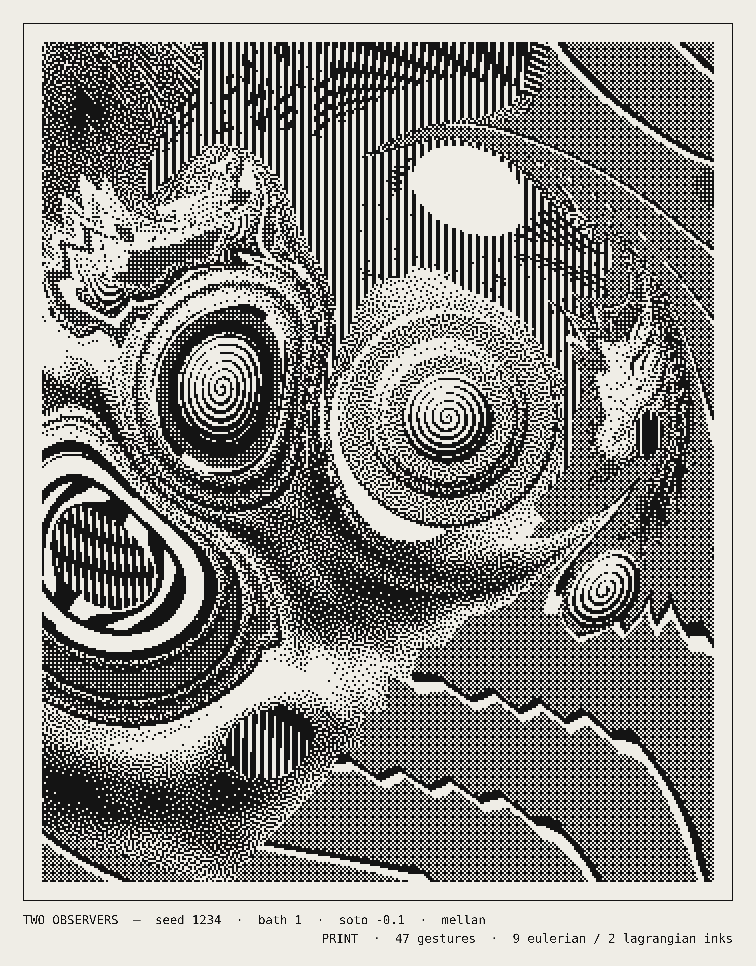
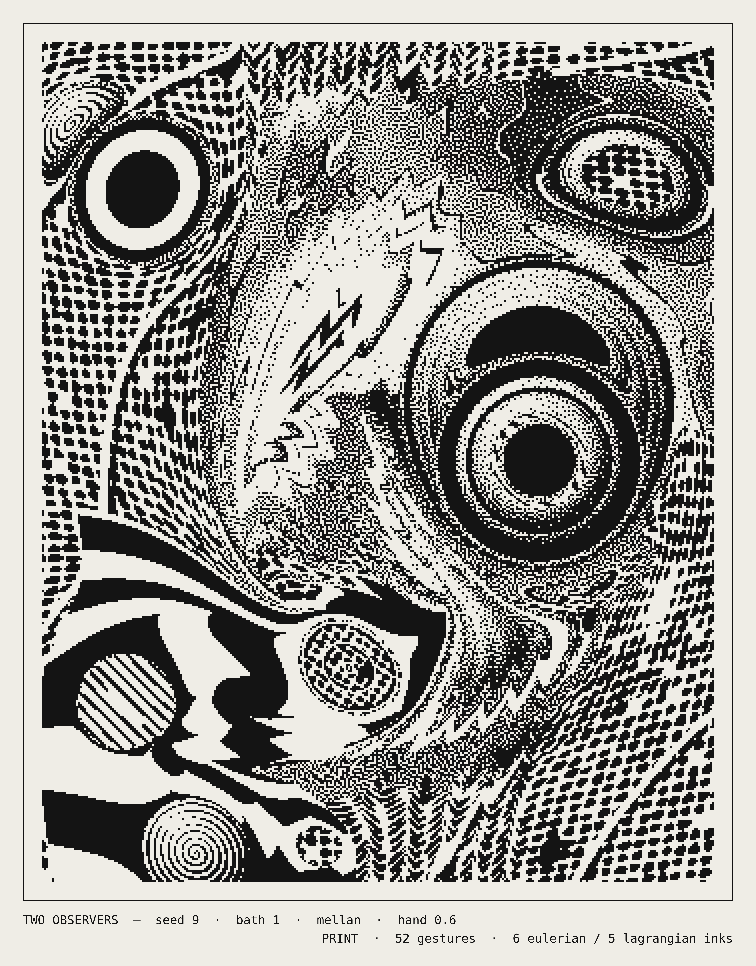
049: the hand, after Polke — carried screens painted, fixed screens machined
- Dot screens carried by the ink are painted: each dot wanders, grows or
  shrinks, goes oval and lobed; some are left out, a few blot into their
  neighbours (nine-dot neighbourhood). Values hash from the cell, so a dot
  is stable in time and is combed with its ink.
- Ruled line screens waver, thicken and break by value noise per line.
- `hand` (0.6) scales it; per-ink hands vary from a hash; no draws from the
  score streams. hand 0 is bit-identical to before (338,400 cells, 0 diff).
- GPU and CPU agree on 99.1-99.8% of cells with the hand on.

Claude-Session: https://claude.ai/code/session_012fSHPGUweFiGv7qkcBfQp8

diff --git a/projects/049-two-observers/sketch.js b/projects/049-two-observers/sketch.js
@@ -3,7 +3,8 @@
 // back through the maps that have started, on the GPU, and asks the material's observer whether
 // the pixel is ink or paper. Two observers come from physical work: Soto (a fixed striped panel
 // behind ink that carries its own lines; the pointer moves the panel) and Mellan (one spiral line
-// per drop, width as tone; V exports it for a pen plotter).
+// per drop, width as tone; V exports it for a pen plotter). The screens carried by the ink are
+// painted by hand, after Polke: dots wander, swell, go missing or blot; lines waver and break.
 // Keys: Space pause · ←/→ scrub (Shift ×5) · N/B next/previous bath · O score overlay
 // · P print (PNG) · V plotter layer (SVG) · J score (JSON) · S sheet PNG · R new seed.
 
@@ -39,6 +40,7 @@
       soto: { value: 0.7, min: 0, max: 1, step: 0.05, label: 'soto chance' },
       mellan: { value: 0.8, min: 0, max: 1, step: 0.05, label: 'mellan chance' },
       panel: { value: 4, min: 3, max: 10, step: 1, label: 'soto panel (cells)' },
+      hand: { value: 0.6, min: 0, max: 1, step: 0.05, label: 'hand (polke)' },
     },
     onReset: function () { if (!S) return; newScore(); doLayout(); },
   });
@@ -54,7 +56,8 @@
   uniform int uNOps, uNWin, uBg;
   uniform float uT, uResolve, uPanel, uParallax;
   uniform vec2 uGrid;
-  uniform vec4 uMat[${M.MAX_MATS * 2}];
+  uniform vec4 uMat[${M.MAX_MATS * 3}];
+  uniform uint uSalt[${M.MAX_MATS}];
   uniform vec4 uWin[${M.MAX_WINS * 2}];
   uniform vec3 uPaper, uInk;
   out vec4 outColor;
@@ -76,10 +79,10 @@
     return (float(v) + 0.5) / 64.0;
   }
   float tone(int m, vec2 q, float rad){
-    vec4 A = uMat[2 * m];
+    vec4 A = uMat[3 * m];
     int pat = int(A.x); float c = cos(A.w), s = sin(A.w);
     float u = q.x * c + q.y * s, v = -q.x * s + q.y * c;
-    float param = uMat[2 * m + 1].w;
+    float param = uMat[3 * m + 1].w;
     if (pat == 0) return A.y;
     if (pat == 1) return fract(u * A.z) < param ? 1.0 : 0.0;
     if (pat == 2){ float w = fract(u * A.z + param * sin(v * A.z * 0.9 + 1.7)); return w < 0.07 ? 1.0 : (w < 0.13 ? 0.0 : A.y); }
@@ -107,7 +110,7 @@
   }
   float blueAt(int x, int y){ return texelFetch(uBlue, ivec2(x & 63, y & 63), 0).r; }
   float threshold(int m, int x, int y, vec2 q, float k){
-    vec4 B = uMat[2 * m + 1];
+    vec4 B = uMat[3 * m + 1];
     int scr = int(B.x);
     if (scr == 5){
       if (1.0 / (B.y * max(k, 1e-9)) >= uResolve){
@@ -130,9 +133,51 @@
     return bayer8(x & 7, y & 7);
   }
 
+  // Polke's hand: per-cell values of an ink's painted screen
+  uint cellH(int cx, int cy, uint salt){ return h32((uint(cx + 4096) * 0x8da6b343u) ^ (uint(cy + 4096) * 0xd8163841u) ^ salt); }
+  float u01(uint h, uint n){ return float(h32(h ^ (n * 0x9e3779b9u))) / 4294967296.0; }
+  bool handDots(int m, vec2 q, float g){
+    vec4 B = uMat[3 * m + 1]; float H = uMat[3 * m + 2].x; uint salt = uSalt[m];
+    float c = cos(B.z), s = sin(B.z);
+    float u = (q.x * c + q.y * s) * B.y, v = (-q.x * s + q.y * c) * B.y;
+    int bx = int(floor(u)), by = int(floor(v));
+    for (int dy = -1; dy <= 1; dy++) for (int dx = -1; dx <= 1; dx++){
+      int cx = bx + dx, cy = by + dy;
+      uint h = cellH(cx, cy, salt);
+      float h0 = u01(h, 1u), h1 = u01(h, 2u), h2 = u01(h, 3u), h3 = u01(h, 4u), h4 = u01(h, 5u), h5 = u01(h, 6u);
+      if (h3 > 1.0 - 0.05 * H) continue;
+      float size = 1.0 + 0.6 * H * (h2 - 0.5);
+      if (h3 < 0.015 * H) size *= 1.9;
+      float r2 = (1.0 - g) / 3.141592654 * size * size;
+      if (r2 <= 0.0) continue;
+      float ex = u - (float(cx) + 0.5 + 0.32 * H * (h0 - 0.5));
+      float ey = v - (float(cy) + 0.5 + 0.32 * H * (h1 - 0.5));
+      float e = 0.45 * H * (h4 - 0.5);
+      ex *= 1.0 + e; ey *= 1.0 - e;
+      float wob = 1.0 + 0.14 * H * sin(3.0 * atan(ey, ex) + 6.283185307 * h5);
+      if ((ex * ex + ey * ey) * wob * wob < r2) return true;
+    }
+    return false;
+  }
+  bool handLines(int m, vec2 q, float g){
+    vec4 B = uMat[3 * m + 1]; float H = uMat[3 * m + 2].x; uint salt = uSalt[m];
+    float c = cos(B.z), s = sin(B.z);
+    float u = (q.x * c + q.y * s) * B.y, v = (-q.x * s + q.y * c) * B.y;
+    int b = int(floor(v));
+    for (int dl = -1; dl <= 1; dl++){
+      int L = b + dl;
+      uint sl = salt ^ (uint(L + 4096) * 0x27d4eb2du);
+      float wob = 0.42 * H * (vnoise(vec2(u * 0.18, 0.5), sl) - 0.5);
+      float width = 1.0 + 0.7 * H * (vnoise(vec2(u * 0.5, 7.5), sl) - 0.5);
+      if (vnoise(vec2(u * 0.09, 13.5), sl) < 0.22 * H) continue;
+      if (abs(v - (float(L) + 0.5 + wob)) < 0.5 * (1.0 - g) * width) return true;
+    }
+    return false;
+  }
+
   // Soto: the fixed panel (period uPanel cells, moved by the viewer) or the ink's own lines.
   float sotoBit(int m, int ix, vec2 q, float k){
-    vec4 A = uMat[2 * m], B = uMat[2 * m + 1];
+    vec4 A = uMat[3 * m], B = uMat[3 * m + 1];
     bool panelInk = fract((float(ix) + uParallax) / uPanel) < 0.5;
     float fL = B.y * uGrid.x / (uPanel * ${M.PLATE_W.toFixed(4)});
     bool lineInk = false;
@@ -188,8 +233,15 @@
     // material units per pixel, measured in uniform control flow
     float k = max(length(dFdx(q)), length(dFdy(q)));
     bool paper;
-    if (int(uMat[2 * mat + 1].x) == 4) paper = sotoBit(mat, ix, q, k) > 0.5;
-    else paper = tone(mat, q, hitR) > threshold(mat, ix, iy, q, k);
+    vec4 B = uMat[3 * mat + 1];
+    int scr = int(B.x); float hnd = uMat[3 * mat + 2].x;
+    if (scr == 4) paper = sotoBit(mat, ix, q, k) > 0.5;
+    else {
+      float g = tone(mat, q, hitR);
+      if (hnd > 0.0 && (scr == 2 || scr == 3) && 1.0 / (B.y * max(k, 1e-9)) >= uResolve)
+        paper = !(scr == 2 ? handDots(mat, q, g) : handLines(mat, q, g));
+      else paper = g > threshold(mat, ix, iy, q, k);
+    }
     outColor = vec4(paper ? uPaper : uInk, 1.0);
   }`;
 
@@ -214,7 +266,7 @@
     gl.bufferData(gl.ARRAY_BUFFER, new Float32Array([-1, -1, 3, -1, -1, 3]), gl.STATIC_DRAW);
     const loc = gl.getAttribLocation(prog, 'p');
     gl.enableVertexAttribArray(loc); gl.vertexAttribPointer(loc, 2, gl.FLOAT, false, 0, 0);
-    for (const n of ['uOps', 'uBlue', 'uNOps', 'uNWin', 'uBg', 'uT', 'uResolve', 'uPanel', 'uParallax', 'uGrid', 'uMat', 'uWin', 'uPaper', 'uInk']) U[n] = gl.getUniformLocation(prog, n);
+    for (const n of ['uOps', 'uBlue', 'uNOps', 'uNWin', 'uBg', 'uT', 'uResolve', 'uPanel', 'uParallax', 'uGrid', 'uMat', 'uSalt', 'uWin', 'uPaper', 'uInk']) U[n] = gl.getUniformLocation(prog, n);
     texOps = gl.createTexture(); texBlue = gl.createTexture();
     gl.activeTexture(gl.TEXTURE1); gl.bindTexture(gl.TEXTURE_2D, texBlue);
     setNearest();
@@ -235,7 +287,7 @@
     gl.activeTexture(gl.TEXTURE0); gl.bindTexture(gl.TEXTURE_2D, texOps);
     setNearest();
     gl.texImage2D(gl.TEXTURE_2D, 0, gl.RGBA32F, 3, M.MAX_OPS, 0, gl.RGBA, gl.FLOAT, P.ops);
-    gl.uniform4fv(U.uMat, P.mats); gl.uniform4fv(U.uWin, P.wins);
+    gl.uniform4fv(U.uMat, P.mats); gl.uniform4fv(U.uWin, P.wins); gl.uniform1uiv(U.uSalt, P.salts);
     gl.uniform1i(U.uNOps, P.nOps); gl.uniform1i(U.uNWin, P.nWins); gl.uniform1i(U.uBg, P.bg);
   }
   const useGPU = initGL();
@@ -268,7 +320,7 @@
 
   // ------------------------------------------------------------------ score & layout
   function newScore() {
-    S = M.score(G.seed, bath, { lagrange: G.param('lagrange'), density: G.param('density'), soto: G.param('soto'), mellan: G.param('mellan') });
+    S = M.score(G.seed, bath, { lagrange: G.param('lagrange'), density: G.param('density'), soto: G.param('soto'), mellan: G.param('mellan'), hand: G.param('hand') });
     upload();
     syncURL();
   }
@@ -331,7 +383,7 @@
   function captionFor(time) {
     const c = counts(time);
     const printing = t >= S.settle;
-    const extra = (S.sotoMat >= 0 ? '  ·  soto' + (Math.abs(parallax) > 0.05 ? ' ' + (parallax > 0 ? '+' : '') + parallax.toFixed(1) : '') : '') + (S.mellanMat >= 0 ? '  ·  mellan' : '');
+    const extra = (S.sotoMat >= 0 ? '  ·  soto' + (Math.abs(parallax) > 0.05 ? ' ' + (parallax > 0 ? '+' : '') + parallax.toFixed(1) : '') : '') + (S.mellanMat >= 0 ? '  ·  mellan' : '') + (S.hand > 0 ? '  ·  hand ' + S.hand.toFixed(2).replace(/0$/, '') : '');
     const left = `TWO OBSERVERS  —  seed ${G.seed}  ·  bath ${bath + 1}${extra}`;
     const right = printing
       ? `PRINT  ·  ${S.ops.length} gestures  ·  ${c.eul} eulerian / ${c.lag} lagrangian inks`

diff --git a/projects/049-two-observers/marble.js b/projects/049-two-observers/marble.js
@@ -19,6 +19,12 @@
  * swim and the viewer's position shifts the panel. Mellan (the Sudarium, 1649): one spiral line
  * per drop whose width carries the tone, combed with the ink and exportable for a pen plotter.
  *
+ * And a hand, after Polke's raster paintings: the screens carried by the ink are painted, not
+ * machined. Each dot wanders, swells or shrinks, goes out of round; now and then one is missing or
+ * runs into its neighbours as a blot; ruled lines waver, thicken and break. The irregularity is a
+ * property of the ink's own cells, so it is stable in time and is combed with the ink. The fixed
+ * screens on the glass stay exact. hand = 0 is the machine and reproduces the unpainted screens.
+ *
  * sketch.js runs the same arithmetic in a fragment shader; this file generates the score,
  * the blue-noise screen and a CPU render used for previews and for checking the shader.
  */
@@ -214,13 +220,24 @@
       if (mellanMat >= 0 && o.a[2] >= 0.05 && u < 0.4) o.mat = mellanMat;
       else if (sotoMat >= 0 && u > 0.93) o.mat = sotoMat;
     }
+    // The hand: painted carried screens. No draws from the score's streams — a hash per ink sets how
+    // heavy each hand is, so the gestures and inks of a seed do not move when the hand changes.
+    const hand = opts.hand == null ? 0.6 : opts.hand;
+    const ss = sessionSeed(seed, bath);
+    mats.forEach((Mt, i) => {
+      Mt.hand = 0; Mt.salt = hash32(ss ^ Math.imul(i + 1, 0x85ebca6b));
+      if (hand > 0 && (Mt.screen === SCR.DOTS || Mt.screen === SCR.LINES)) {
+        Mt.hand = hand * (0.6 + 0.4 * (hash32(Mt.salt ^ 0x51ed) / 4294967296));
+        if (Mt.screen === SCR.DOTS) Mt.sfreq *= 1 - 0.45 * Mt.hand;   // Polke's enlarged raster
+      }
+    });
     let end = 0;
     for (const o of ops) end = Math.max(end, o.t0 + o.dur);
     const settle = end + 2.5;
     return {
       seed: seed >>> 0, bath, sessionSeed: sessionSeed(seed, bath), movement, sotoMat, mellanMat,
       mats, bg, wins, ops, settle, hold: 6, length: settle + 6,
-      lagrange, density,
+      lagrange, density, hand,
     };
   }
 
@@ -391,9 +408,56 @@
     }
     return panelInk || lineInk ? 0 : 1;
   }
+  // Four independent unit values from one cell of an ink's screen.
+  function cellHash(cx, cy, salt) {
+    const h = hash32(Math.imul((cx + 4096) >>> 0, 0x8da6b343) ^ Math.imul((cy + 4096) >>> 0, 0xd8163841) ^ salt);
+    const u = (n) => hash32(h ^ Math.imul(n, 0x9e3779b9)) / 4294967296;
+    return [u(1), u(2), u(3), u(4), u(5), u(6)];
+  }
+  // Polke's dots: each of the nine nearest painted dots may reach this pixel.
+  function handDotsInk(M, x, y, g) {
+    const H = M.hand, c = Math.cos(M.sangle), s = Math.sin(M.sangle);
+    const u = (x * c + y * s) * M.sfreq, v = (-x * s + y * c) * M.sfreq;
+    const bx = Math.floor(u), by = Math.floor(v);
+    for (let dy = -1; dy <= 1; dy++) for (let dx = -1; dx <= 1; dx++) {
+      const cx = bx + dx, cy = by + dy;
+      const h = cellHash(cx, cy, M.salt);
+      if (h[3] > 1 - 0.05 * H) continue;                                  // a dot left out
+      let size = 1 + 0.6 * H * (h[2] - 0.5);
+      if (h[3] < 0.015 * H) size *= 1.9;                                   // a blot
+      const r2 = (1 - g) / Math.PI * size * size;
+      if (r2 <= 0) continue;
+      let ex = u - (cx + 0.5 + 0.32 * H * (h[0] - 0.5));
+      let ey = v - (cy + 0.5 + 0.32 * H * (h[1] - 0.5));
+      const e = 0.45 * H * (h[4] - 0.5);                                  // out of round
+      ex *= 1 + e; ey *= 1 - e;
+      const wob = 1 + 0.14 * H * Math.sin(3 * Math.atan2(ey, ex) + 6.283185307 * h[5]);
+      if ((ex * ex + ey * ey) * wob * wob < r2) return true;
+    }
+    return false;
+  }
+  // Lines ruled by hand: each wavers along its length, varies in width, and breaks.
+  function handLinesInk(M, x, y, g) {
+    const H = M.hand, c = Math.cos(M.sangle), s = Math.sin(M.sangle);
+    const u = (x * c + y * s) * M.sfreq, v = (-x * s + y * c) * M.sfreq;
+    const b = Math.floor(v);
+    for (let dl = -1; dl <= 1; dl++) {
+      const L = b + dl;
+      const sl = (M.salt ^ Math.imul(L + 4096, 0x27d4eb2d)) >>> 0;
+      const wob = 0.42 * H * (vnoise(u * 0.18, 0.5, sl) - 0.5);
+      const width = 1 + 0.7 * H * (vnoise(u * 0.5, 7.5, sl) - 0.5);
+      if (vnoise(u * 0.09, 13.5, sl) < 0.22 * H) continue;                // the brush lifted
+      if (Math.abs(v - (L + 0.5 + wob)) < 0.5 * (1 - g) * width) return true;
+    }
+    return false;
+  }
   function shade(M, ix, iy, q, k, C) {
     if (M.screen === SCR.SOTO) return sotoBit(M, ix, q.x, q.y, k, C);
     const g = tone(M, q.x, q.y, q.rad);
+    if (M.hand > 0 && (M.screen === SCR.DOTS || M.screen === SCR.LINES)
+      && 1 / (M.sfreq * Math.max(k, 1e-9)) >= C.resolve) {
+      return (M.screen === SCR.DOTS ? handDotsInk(M, q.x, q.y, g) : handLinesInk(M, q.x, q.y, g)) ? 0 : 1;
+    }
     return g > threshold(M, ix, iy, q.x, q.y, k, C.resolve, C.blue) ? 1 : 0;
   }
 
@@ -566,13 +630,15 @@ ${groups.join('\n')}
     S.ops.forEach((o, i) => {
       ops.set([o.type, o.t0, o.dur, o.mat, o.a[0], o.a[1], o.a[2], o.a[3], o.b[0], o.b[1], o.b[2], o.b[3]], i * 12);
     });
-    const mats = new Float32Array(MAX_MATS * 8);
+    const mats = new Float32Array(MAX_MATS * 12);
     S.mats.forEach((M, i) => {
-      mats.set([M.pattern, M.tone, M.freq, M.angle, M.screen, M.sfreq, M.sangle, M.param], i * 8);
+      mats.set([M.pattern, M.tone, M.freq, M.angle, M.screen, M.sfreq, M.sangle, M.param, M.hand || 0, 0, 0, 0], i * 12);
     });
+    const salts = new Uint32Array(MAX_MATS);
+    S.mats.forEach((M, i) => { salts[i] = M.salt >>> 0; });
     const wins = new Float32Array(MAX_WINS * 8);
     S.wins.forEach((w, i) => { wins.set([w.cx, w.cy, w.hx, w.hy, w.angle, w.mat, 0, 0], i * 8); });
-    return { ops, nOps: S.ops.length, mats, wins, nWins: S.wins.length, bg: S.bg };
+    return { ops, nOps: S.ops.length, mats, salts, wins, nWins: S.wins.length, bg: S.bg };
   }
 
   // The score as a plain, auditable record.
@@ -582,12 +648,13 @@ ${groups.join('\n')}
     return {
       piece: 'Two Observers', seed: S.seed, bath: S.bath, sessionSeed: S.sessionSeed,
       movement: S.movement, settle: r4(S.settle), length: r4(S.length),
-      lagrange: S.lagrange, density: S.density,
+      lagrange: S.lagrange, density: S.density, hand: S.hand,
       ground: { bg: S.bg, windows: S.wins.map((w) => ({ cx: r4(w.cx), cy: r4(w.cy), hx: r4(w.hx), hy: r4(w.hy), angle: r4(w.angle), mat: w.mat })) },
       materials: S.mats.map((M) => ({
         pattern: Object.keys(PAT).find((k) => PAT[k] === M.pattern), tone: r4(M.tone), freq: r4(M.freq), angle: r4(M.angle),
         observer: M.screen === SCR.SOTO ? 'soto (fixed panel + carried lines)' : M.screen === SCR.SPIRAL ? 'mellan (carried spiral)' : M.screen >= SCR.DOTS ? 'lagrangian' : 'eulerian',
         screen: Object.keys(SCR).find((k) => SCR[k] === M.screen), screenFreq: r4(M.sfreq), screenAngle: r4(M.sangle),
+        hand: r4(M.hand || 0),
       })),
       ops: S.ops.map((o) => ({ op: names[o.type], t0: r4(o.t0), dur: r4(o.dur), mat: o.type === OP.DROP ? o.mat : undefined, a: o.a.map(r4), b: o.b.map(r4) })),
     };

diff --git a/projects/049-two-observers/README.md b/projects/049-two-observers/README.md
@@ -10,9 +10,10 @@ finer than the eye can resolve, the fixed observer takes over. Two more observer
 physical work: **Soto**'s fixed striped panel, seen through ink that carries its own lines, so
 the combing makes the moiré swim and the viewer's position moves the panel; and **Mellan**'s
 single spiral line, whose width is the tone, engraving drops as lit spheres that the comb then
-drags — and that leave the screen as a pen-plotter drawing.
+drags — and that leave the screen as a pen-plotter drawing. And the screens the ink carries are
+painted by **hand**, after Polke's raster paintings, while the screens on the glass stay machined.
 
-![seed 1234, bath 1, the print: a Soto panel at the top, three Mellan spheres, 47 gestures](preview.png)
+![seed 9, bath 1, the print: hand-painted dots down the left, Mellan spheres, 52 gestures, hand 0.6](preview.png)
 
 **Mechanism (one sentence):** every gesture is an exact, invertible map of the plane, so the bath
 at time *t* is found by pulling each pixel back through the gestures that have started, newest
@@ -102,6 +103,27 @@ Kept: the collage of procedural fields in rigid windows, folding motion, contour
 - Both draw from their own random stream, so adding them changed no other gesture of a seed's
   score; it does change which ink some drops carry.
 
+## The hand (Polke)
+
+After Sigmar Polke's raster paintings (from 1963), where the halftone dots are painted one by one
+and the machine's regularity falls apart in the hand. Here the hand belongs to the carried screens
+only: the fixed observer is a machine, the ink's screen was painted.
+
+- **Dots.** Every cell of an ink's dot screen has six values hashed from the cell and the ink, so
+  a dot is the same dot from frame to frame and is combed with its ink. The dot wanders off centre
+  (±16 % of the pitch at full hand), grows or shrinks (±30 %), goes oval (±22 %) and lobed
+  (±14 %); one in twenty is left out, and one in about seventy swells to 1.9 × as a blot that runs
+  into its neighbours (each pixel tests the nine nearest dots, so a blot is not clipped to its
+  cell). Dot area follows tone; the raster's frequency drops by up to 45 % (its pitch grows up to
+  1.8 ×) so the hand can be seen.
+- **Lines.** Each ruled line wavers along its length (±21 % of the pitch), thickens and thins
+  (±35 %), and breaks where the brush lifted (value noise along the line under 0.22 × hand).
+- **Amount.** *hand* (0.6) scales all of it; each ink's own hand is 0.6 – 1.0 of that, from a
+  hash, so a bath has heavier and lighter hands. The hand draws nothing from the score's random
+  streams: changing it moves no gesture. At *hand* 0 the screens are the machine again — the
+  render is identical, bit for bit, to the version before the hand (338,400 cells, 0 different).
+- Soto's lines and Mellan's spiral stay exact: an optical construction and an engraver's burin.
+
 ## Prints and scores
 
 - **P** — the print: the screen's own bits enlarged by a whole factor to about 4,000 px tall, on
@@ -119,7 +141,7 @@ Space pause / play · ← → scrub one second (Shift: five) · N / B next / pre
 drawn over the plate (gestures in progress, in red) · P print · V plotter SVG · J score · S sheet ·
 R new seed · pointer across the window: Soto's panel. Panel: *cell* (css px per dither cell, 2 by
 default — about the foundation's grain), *speed*, *lagrangian share*, *gesture density*,
-*resolvable period*, *soto chance*, *mellan chance*, *soto panel*. URL:
+*resolvable period*, *soto chance*, *mellan chance*, *soto panel*, *hand*. URL:
 `?seed=…&bath=…&t=…&pause=1&par=…` reproduces a moment, `par` being the panel's shift in cells;
 the panel writes its own parameters to the link.
 
@@ -132,10 +154,11 @@ the panel writes its own parameters to the link.
 
 ## Verification
 
-- GPU against CPU, headless Chromium (SwiftShader), grid 336 × 420, with Soto and Mellan: the
-  shader's bits agree with `marble.js` on 99.66 % (seed 7, t 12), 99.74 % (seed 21, t 17.1),
-  99.72 % (the same with the panel shifted 1.5 cells), 99.21 % (seed 9, the print) and 99.34 %
-  (seed 404, the print, panel shifted 2.2) of cells. The remainder are pixels whose tone sits on a threshold (float32 against
+- GPU against CPU, headless Chromium (SwiftShader), grid 336 × 420, with Soto, Mellan and the
+  hand at 0.6: the shader's bits agree with `marble.js` on 99.16 % (seed 9, the print), 99.61 %
+  (seed 7, t 12), 99.79 % (seed 21, t 17.1, panel shifted 1.5 cells), 99.10 % (seed 404, the
+  print) and 99.59 % (seed 1234, t 25) of cells. Before the hand, the same check gave
+  99.21 – 99.74 %. The remainder are pixels whose tone sits on a threshold (float32 against
   float64) or whose derivative crosses a material edge. Frame time there: 200 – 220 ms.
 - Forward against inverse: 2,000 random points pushed forward from a random gesture to the end of
   seed 7's score and pulled back return to within 1.4 × 10⁻¹⁴ plate units.
@@ -167,5 +190,7 @@ the panel writes its own parameters to the link.
   window: the moiré's scale is the same on every screen, but the ink lines' plate frequency is not,
   and a print records the screen it was taken from.
 - The panel follows the pointer only; device tilt is not read.
+- The hand's per-cell values are hashed in 32-bit integers on both sides, but the GPU turns them
+  into floats with 24 bits, so a dot whose value sits on a cut-off (left out, blot) can differ.
 - The plotter layer is Mellan's spirals and the frame; the rest of the plate is bitmap only.
 - The contact-sheet button opens one WebGL context per tile; browsers cap live contexts, untested.
